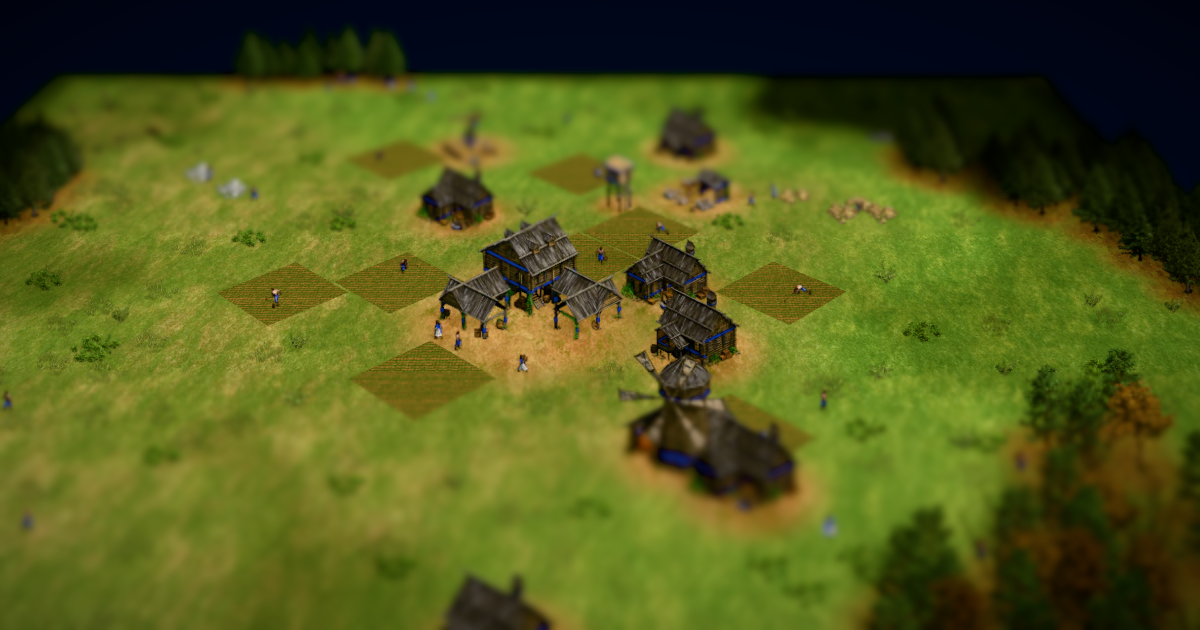
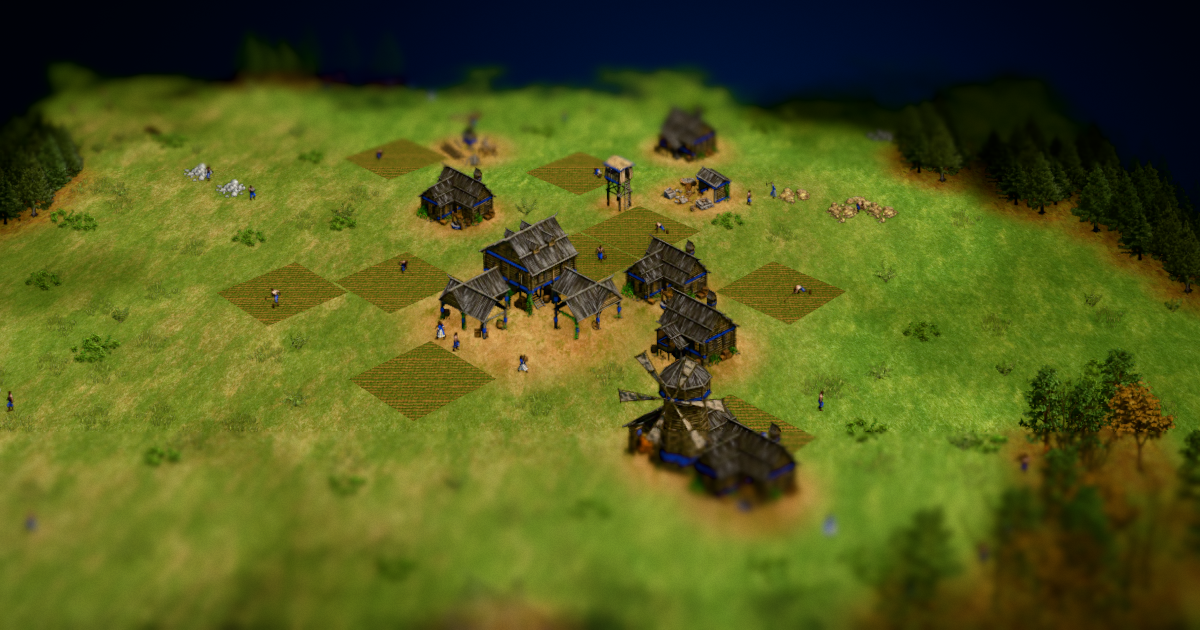
feat(landing): ambient motion, pacing and new stills
Every shot now drifts a little and leans towards the pointer, so a held
beat is never frozen. Detect and Decide get more scroll, for the deck's
pulse and the catalog filter. The poster is placed and scaled the way the
scene frames its first shot, so the crossfade on load does not jump.

Stills, poster and OG image are taken again from the new scene.

diff --git a/apps/landing/src/components/walkthrough/chapters.ts b/apps/landing/src/components/walkthrough/chapters.ts
@@ -45,7 +45,7 @@ export const CHAPTERS: Chapter[] = [
     title: "Find every entity",
     body: `A YOLO26n model trained on 65 classes boxes the units, buildings, animals and resources. On this frame it returns ${TURN_FACTS.boxes} boxes: ${TURN_FACTS.villagers} villagers, ${TURN_FACTS.trees} trees, ${TURN_FACTS.farms} farms, ${TURN_FACTS.houses} houses and the rest.`,
     doc: { slug: "detection/detector", label: "Entity detector" },
-    length: 1.5,
+    length: 1.75,
   },
   {
     id: "track",
@@ -77,7 +77,7 @@ export const CHAPTERS: Chapter[] = [
     title: "Pick one action",
     body: `The act loop filters the action catalog against the frame. Population is at its cap and no villager is idle, so <code>queue_villager</code> and the <code>assign_*</code> actions drop out. The TypeSafe policy picks <code>build_house</code>. The strategist runs on its own 25 s clock and only sets goals; the executor LLM wakes for alarms, handoffs and recovery.`,
     doc: { slug: "agent/decision-loops", label: "Decision loops" },
-    length: 2,
+    length: 2.2,
   },
   {
     id: "act",

diff --git a/apps/landing/src/components/walkthrough/scene/index.ts b/apps/landing/src/components/walkthrough/scene/index.ts
@@ -314,6 +314,11 @@ export async function mountScene({ view, stage, assets }: MountOptions): Promise
     if (!debugPose) {
       pose.az += hero * (Math.sin(time * 0.08) * 3 + pointer.sx * 3);
       pose.el += hero * pointer.sy * 1.5;
+      // Every other shot breathes a little and leans towards the pointer, so a held
+      // beat is never frozen.
+      const held = 1 - hero;
+      pose.az += held * (Math.sin(time * 0.13) * 0.7 + pointer.sx * (small ? 0 : 1.1));
+      pose.el += held * (Math.sin(time * 0.1 + 1.3) * 0.35 + pointer.sy * (small ? 0 : 0.5));
       pose.size *= 1 + hero * Math.sin(time * 0.11) * 0.03;
       pose.size *= 1 + 0.14 * (1 - intro);
       pose.el += 5 * (1 - intro);

diff --git a/apps/landing/src/styles/globals.css b/apps/landing/src/styles/globals.css
@@ -1072,6 +1072,10 @@
   transition: opacity 700ms ease;
 }
 
+.wt[data-mode="scene"] .wt-poster {
+  transform: var(--wt-poster, none);
+}
+
 .wt[data-ready] .wt-poster {
   opacity: 0;
 }
